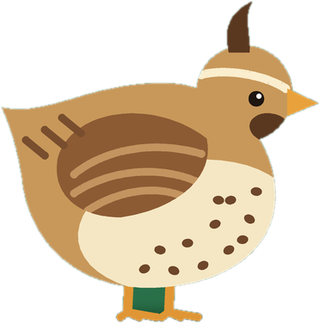
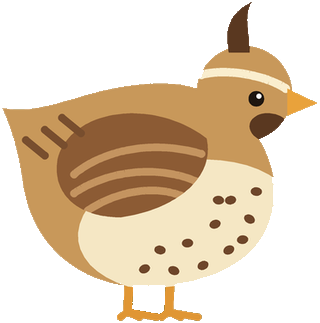
Ganti burung di layar loading dan gambar laporan dengan puyuh; bersihkan sisa latar hijau pada gambar puyuh
Claude-Session: https://claude.ai/code/session_01XCemjaXT41o4GhmLPKrpZy

diff --git a/aplikasi.html b/aplikasi.html
@@ -173,7 +173,7 @@ details.fgroup-more{margin:16px 0 14px}details.fgroup-more summary{list-style:no
 </head>
 <body>
 <div id="successToast" class="success-toast" role="status" aria-live="polite"><b>BERHASIL</b></div>
-<div id="loading" class="loading">🐦 Memuat data…</div>
+<div id="loading" class="loading"><span style="display:flex;align-items:center;gap:8px"><img class="ico-puyuh" src="puyuh-hero.png" alt="" style="width:30px;height:30px">Memuat data…</span></div>
 <div id="app" class="app hidden">
 <svg width="0" height="0" style="position:absolute" aria-hidden="true" focusable="false"><symbol id="ic-kandang" viewBox="0 0 48 48"><ellipse cx="24" cy="43" rx="20" ry="2" fill="#000" opacity=".12"/><rect x="8" y="37" width="4" height="6.5" rx="1" fill="#8a5a30"/><rect x="36" y="37" width="4" height="6.5" rx="1" fill="#8a5a30"/><rect x="5" y="22" width="38" height="16.5" rx="2.5" fill="#d9a866"/><rect x="9" y="25.5" width="30" height="10.5" rx="2" fill="#5e3f23"/><ellipse cx="22.5" cy="31.6" rx="7" ry="4.1" fill="#c8924f"/><ellipse cx="24" cy="33.1" rx="4.6" ry="2.5" fill="#f6e3b8"/><circle cx="29.6" cy="28.6" r="2.5" fill="#c8924f"/><path d="M28.6 26.3 27.8 24.4l2.1 1.2z" fill="#6b3f1e"/><path d="M31.8 28.7l2 .7-2 .7z" fill="#f0a030"/><circle cx="30.4" cy="28.3" r=".6" fill="#222"/><path d="M14 25.5V36M19 25.5V36M24 25.5V36M29 25.5V36M34 25.5V36" stroke="#f6ecd2" stroke-width="1" opacity=".7"/><rect x="9" y="25.5" width="30" height="10.5" rx="2" fill="none" stroke="#f6ecd2" stroke-width="1.6"/><path d="M2.5 23.5 24 10.5l21.5 13z" fill="#a8552d" stroke="#a8552d" stroke-width="2" stroke-linejoin="round"/><path d="M11 21.8 24 13.8l13 8" fill="none" stroke="#c76b3f" stroke-width="1.8" stroke-linecap="round" stroke-linejoin="round"/></symbol><symbol id="ic-lainnya" viewBox="0 0 48 48"><rect x="6" y="6" width="16" height="16" rx="4.5" fill="#1f5c3a"/><rect x="26" y="6" width="16" height="16" rx="4.5" fill="#e9a23b"/><rect x="6" y="26" width="16" height="16" rx="4.5" fill="#c8924f"/><rect x="26" y="26" width="16" height="16" rx="4.5" fill="#2f7d4a"/></symbol></svg><header class="top"><div class="topline"><button class="hero-icon" aria-label="Buka pengaturan" data-go="settings">☰</button><span class="brand">PuyuhKu</span><div class="egg-tick" id="eggTick" aria-live="polite" hidden><span id="eggTickText"></span></div><button class="hero-icon" aria-label="Notifikasi">🔔</button></div><div class="hero-copy"><h1>Laporan Keuangan<br>Peternakan Puyuh</h1><p>Usaha lebih terarah,<br>untung lebih maksimal</p></div><div class="month" id="monthLabel"></div></header>
 <main class="content">
@@ -366,7 +366,7 @@ $("shareImgBtn").onclick=async()=>{
  let fs=60;x.font=`800 ${fs}px ${F}`;while(x.measureText(s.farm).width>W-2*P&&fs>30){fs-=2;x.font=`800 ${fs}px ${F}`}
  x.fillStyle="#FFFFFF";x.textBaseline="alphabetic";x.fillText(s.farm,P,112);
  x.font=`600 36px ${F}`;x.fillStyle="#D5EBDA";x.fillText("Laporan Keuangan · "+s.period,P,172);
- x.font=`600 28px ${F}`;x.fillStyle="#D5EBDA";x.fillText("🐦 PuyuhKu",P,220);
+ x.font=`600 28px ${F}`;x.fillStyle="#D5EBDA";const qi=await new Promise(r=>{const i=new Image();i.onload=()=>r(i);i.onerror=()=>r(null);i.src="puyuh-hero.png"});let qx=P;if(qi){x.drawImage(qi,P,188,36,36);qx=P+46}x.fillText("PuyuhKu",qx,220);
  s.rows.forEach(([l,v],i)=>{const y=HEAD+i*RH,isProfit=i===2;
   if(isProfit){x.fillStyle=s.locked?"#fbece8":s.profitNeg?"#fae9e7":"#E3F1E5";x.fillRect(0,y,W,RH)}
   x.strokeStyle="#e4dcc8";x.lineWidth=2;x.beginPath();x.moveTo(P,y+RH);x.lineTo(W-P,y+RH);x.stroke();
